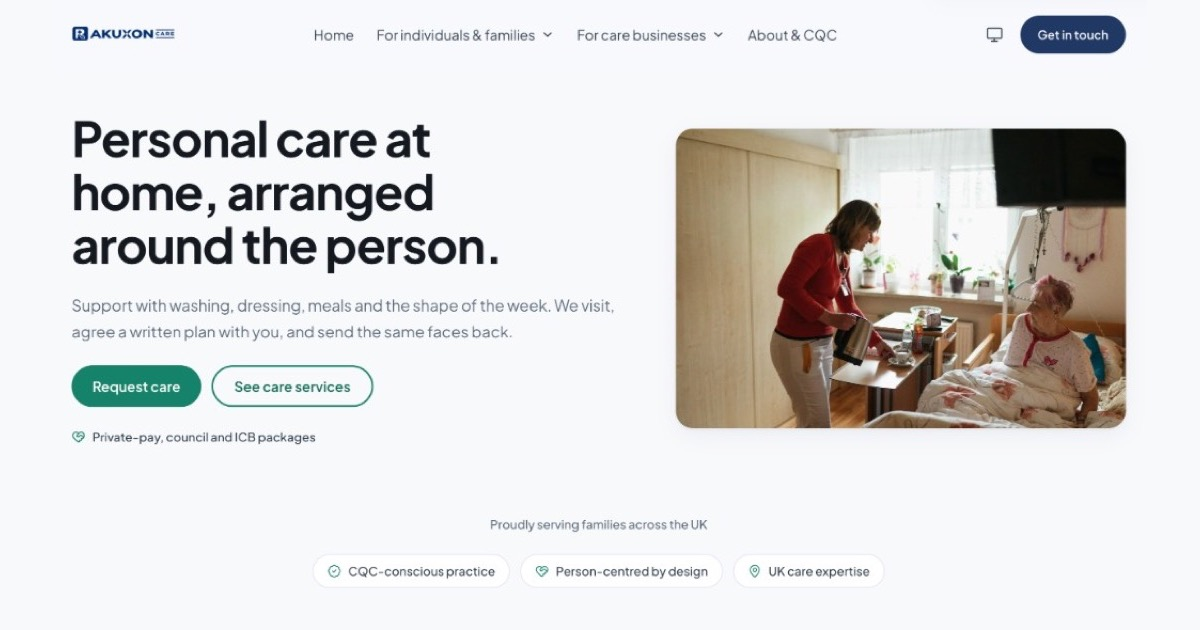
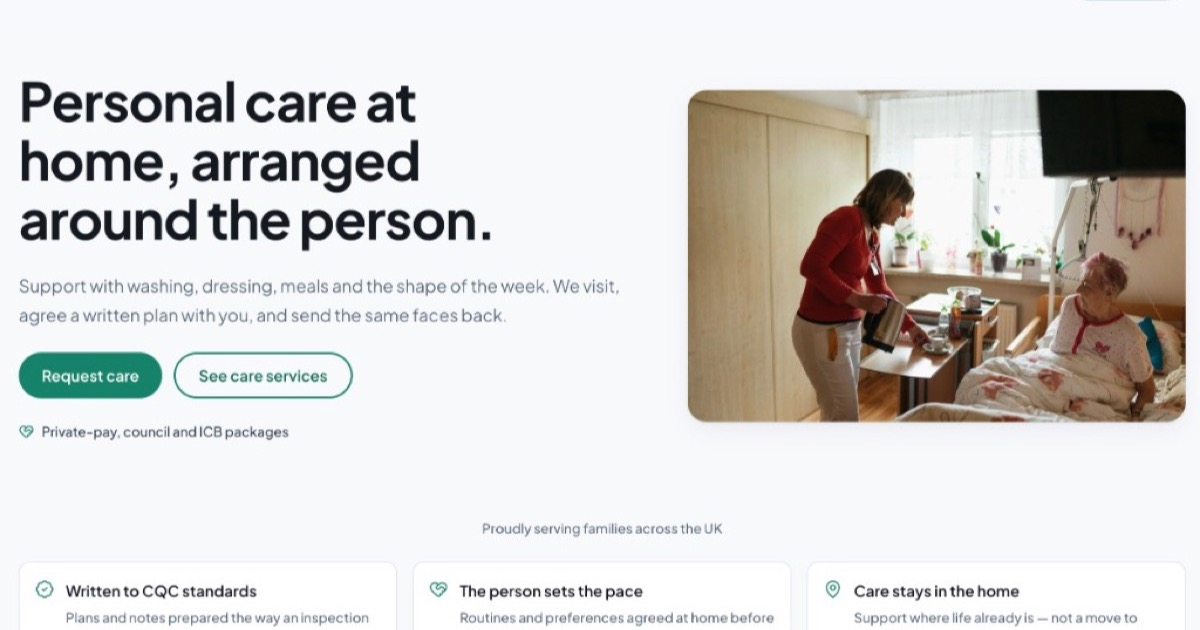
feat: enhance SEO and routing for Open Graph and Twitter images
- Added routing for Open Graph and Twitter images to prevent 404 errors for crawlers.
- Updated metadata to include authors and publication date for improved SEO.
- Refined site URL handling to ensure consistency with the www subdomain.
- Adjusted tests to reflect changes in site URL structure.

diff --git a/app/layout.tsx b/app/layout.tsx
@@ -6,7 +6,7 @@ import { SiteFooter } from "@/components/marketing/site-footer";
 import { SiteHeader } from "@/components/marketing/site-header";
 import { StickyCta } from "@/components/marketing/sticky-cta";
 import { organisationJsonLd, websiteJsonLd } from "@/lib/schema";
-import { origin } from "@/lib/seo";
+import { origin, SITE_AUTHOR, SITE_DATE } from "@/lib/seo";
 import { THEME_INIT_SCRIPT } from "@/lib/theme";
 import "./globals.css";
 
@@ -39,6 +39,8 @@ export const metadata: Metadata = {
   },
   description:
     "Personal and domiciliary care at home, assessed with you and written into a plan before anyone starts.",
+  authors: [{ name: SITE_AUTHOR }],
+  other: { date: SITE_DATE },
   openGraph: {
     type: "website",
     locale: "en_GB",
@@ -46,7 +48,9 @@ export const metadata: Metadata = {
     url: origin(),
     images: [
       {
-        url: "/opengraph-image",
+        url: "/og.jpg",
+        secureUrl: "/og.jpg",
+        type: "image/jpeg",
         width: 1200,
         height: 630,
         alt: "Rakuxon Care — personal care at home",
@@ -55,7 +59,7 @@ export const metadata: Metadata = {
   },
   twitter: {
     card: "summary_large_image",
-    images: ["/opengraph-image"],
+    images: ["/og.jpg"],
   },
 };
 

diff --git a/lib/seo.ts b/lib/seo.ts
@@ -3,7 +3,10 @@ import { serviceHref } from "@/lib/clusters";
 import type { Service } from "@/lib/cms/types";
 import { siteUrl } from "@/lib/env";
 
-const SITE_NAME = "Rakuxon Care";
+export const SITE_NAME = "Rakuxon Care";
+export const SITE_AUTHOR = "Rakuxon Care";
+/** Last editorial review — used for the `date` meta tag SEO tools expect. */
+export const SITE_DATE = "2026-08-22";
 
 export function origin(): string {
   return siteUrl().replace(/\/$/, "");
@@ -34,7 +37,9 @@ export function pageMetadata({
   const url = absoluteUrl(path);
   const ogTitle = absoluteTitle ?? `${title} · ${SITE_NAME}`;
   const ogImage = {
-    url: absoluteUrl("/opengraph-image"),
+    url: absoluteUrl("/og.jpg"),
+    secureUrl: absoluteUrl("/og.jpg"),
+    type: "image/jpeg",
     width: 1200,
     height: 630,
     alt: "Rakuxon Care — personal care at home",
@@ -42,6 +47,8 @@ export function pageMetadata({
   return {
     title: absoluteTitle ? { absolute: absoluteTitle } : title,
     description,
+    authors: [{ name: SITE_AUTHOR }],
+    other: { date: SITE_DATE },
     alternates: { canonical: url },
     openGraph: {
       title: ogTitle,

diff --git a/lib/env.ts b/lib/env.ts
@@ -22,7 +22,10 @@ const serverSchema = z.object({
   ENQUIRY_NOTIFY_EMAIL: z
     .string()
     .email("ENQUIRY_NOTIFY_EMAIL must be an email"),
-  NEXT_PUBLIC_SITE_URL: z.string().url().default("https://rakuxoncare.co.uk"),
+  NEXT_PUBLIC_SITE_URL: z
+    .string()
+    .url()
+    .default("https://www.rakuxoncare.co.uk"),
 });
 
 export type ServerEnv = z.infer<typeof serverSchema>;
@@ -71,6 +74,18 @@ export function mailConfig():
   return { ready: true, apiKey: apiKey!, from: from!, notify: notify! };
 }
 
+const PRODUCTION_ORIGIN = "https://www.rakuxoncare.co.uk";
+
+/** Live site is www; apex 308s there. og:url must match or Facebook drops tags. */
 export function siteUrl(): string {
-  return process.env.NEXT_PUBLIC_SITE_URL ?? "https://rakuxoncare.co.uk";
+  const configured = process.env.NEXT_PUBLIC_SITE_URL ?? PRODUCTION_ORIGIN;
+  try {
+    const url = new URL(configured);
+    if (url.hostname === "rakuxoncare.co.uk") {
+      url.hostname = "www.rakuxoncare.co.uk";
+    }
+    return url.origin;
+  } catch {
+    return PRODUCTION_ORIGIN;
+  }
 }

diff --git a/tests/env.test.ts b/tests/env.test.ts
@@ -111,7 +111,13 @@ describe("siteUrl", () => {
   it("falls back to the production origin", async () => {
     delete process.env.NEXT_PUBLIC_SITE_URL;
     const { siteUrl } = await env();
-    expect(siteUrl()).toBe("https://rakuxoncare.co.uk");
+    expect(siteUrl()).toBe("https://www.rakuxoncare.co.uk");
+  });
+
+  it("rewrites the apex host to www so og:url matches the live site", async () => {
+    process.env.NEXT_PUBLIC_SITE_URL = "https://rakuxoncare.co.uk";
+    const { siteUrl } = await env();
+    expect(siteUrl()).toBe("https://www.rakuxoncare.co.uk");
   });
 
   it("prefers the configured value", async () => {

diff --git a/next.config.ts b/next.config.ts
@@ -63,6 +63,18 @@ const nextConfig: NextConfig = {
         destination: "/agency/case-studies",
         permanent: true,
       },
+      /* File-based metadata lives at *.jpg. WhatsApp (and older crawlers)
+         follow og:image with no extension and get a 404 without this. */
+      {
+        source: "/opengraph-image",
+        destination: "/opengraph-image.jpg",
+        permanent: true,
+      },
+      {
+        source: "/twitter-image",
+        destination: "/twitter-image.jpg",
+        permanent: true,
+      },
     ];
   },
 };

diff --git a/tests/catalogue.test.ts b/tests/catalogue.test.ts
@@ -59,7 +59,7 @@ describe("sitemap", () => {
   it("includes every catalogue URL", () => {
     const urls = new Set(sitemap().map((entry) => entry.url));
     for (const service of CATALOGUE) {
-      expect(urls.has(`https://rakuxoncare.co.uk${serviceHref(service)}`)).toBe(
+      expect(urls.has(`https://www.rakuxoncare.co.uk${serviceHref(service)}`)).toBe(
         true,
       );
     }
